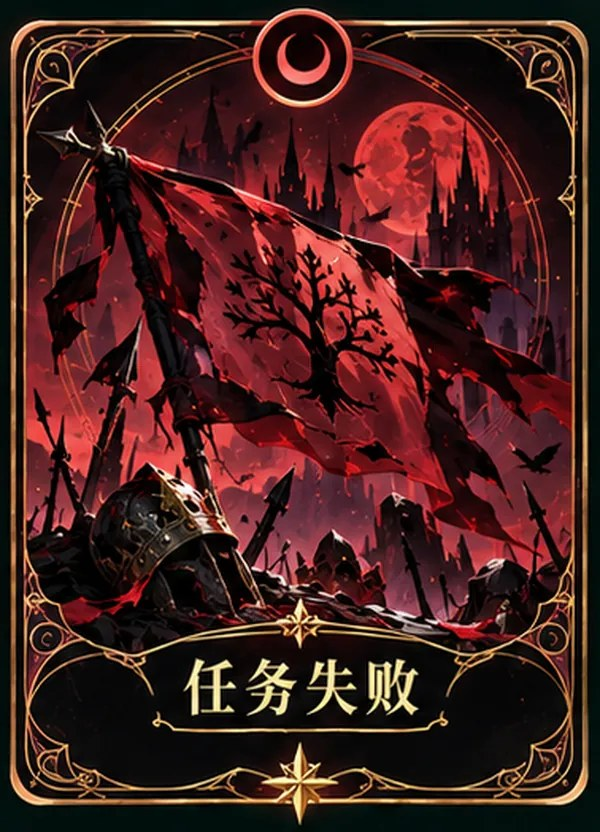
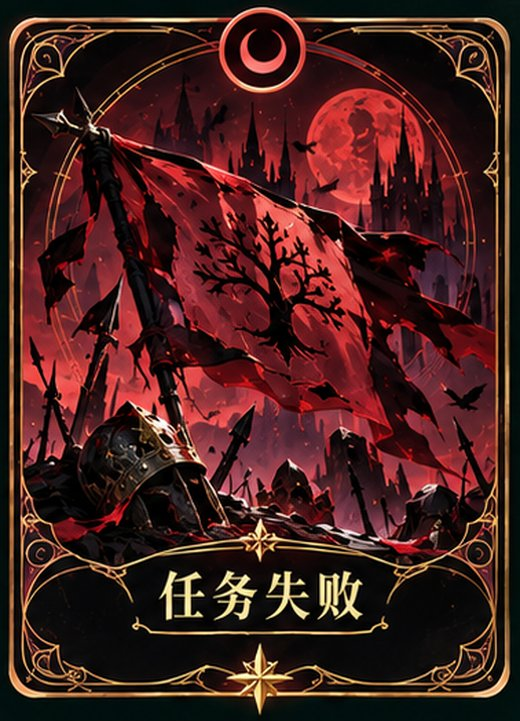
fix: migrate card assets from webp to jpg

Changed region(s): [[0.8615, 0.9154, 0.8923, 0.9459], [0.0615, 0.8849, 0.0923, 0.9154]]

diff --git a/miniprogram/tests/cards.test.js b/miniprogram/tests/cards.test.js
@@ -65,7 +65,7 @@ for (const [code, name] of Object.entries({
   MORDRED: 'mordred', OBERON: 'oberon',
 })) {
   test(`${code} maps to its supplied role artwork`, () => {
-    assert.equal(cards.roleCard(code), `/assets/cards/roles/${name}.webp`);
+    assert.equal(cards.roleCard(code), `/assets/cards/roles/${name}.jpg`);
   });
 }
 
@@ -77,39 +77,50 @@ test('unknown card codes including inherited object keys use safe fallbacks', ()
   }
 });
 
-test('all 19 mapped images exist as 17 WebP and 2 JPEG files and role back exists', () => {
+test('all 19 mapped images exist as nonempty JPEG files below 200KB', () => {
   const images = Object.values(cards.CARDS).flatMap(Object.values);
   assert.equal(images.length, 19);
   assert.equal(new Set(images).size, 19);
-  assert.equal(images.filter(image => image.endsWith('.webp')).length, 17);
-  assert.equal(images.filter(image => image.endsWith('.jpg')).length, 2);
   for (const image of images) {
     const bytes = fs.readFileSync(path.join(root, image));
-    if (image.endsWith('.jpg')) {
-      assert.equal(bytes.readUInt16BE(0), 0xffd8, image);
-      assert.equal(bytes.readUInt16BE(bytes.length - 2), 0xffd9, image);
-      assert.ok(bytes.length > 1024 && bytes.length < 200 * 1024, image);
-    } else {
-      assert.ok(image.endsWith('.webp'), image);
-      assert.equal(bytes.toString('ascii', 0, 4), 'RIFF', image);
-      assert.equal(bytes.toString('ascii', 8, 12), 'WEBP', image);
-      assert.ok(bytes.length > 1000 && bytes.length < 300 * 1024, image);
-    }
+    assert.ok(image.endsWith('.jpg'), image);
+    assert.equal(bytes.readUInt16BE(0), 0xffd8, image);
+    assert.equal(bytes.readUInt16BE(bytes.length - 2), 0xffd9, image);
+    assert.ok(bytes.length > 1024 && bytes.length <= 200_000, image);
   }
 });
 
-test('mission mappings select JPG only; duplicate mission WebP assets are absent', () => {
+test('all action mappings select JPG; no unmapped or duplicate files remain in cards/', () => {
   assert.equal(cards.actionCard('SUCCESS'), '/assets/cards/actions/mission-success.jpg');
   assert.equal(cards.actionCard('FAIL'), '/assets/cards/actions/mission-fail.jpg');
-  assert.equal(cards.actionCard('APPROVE'), '/assets/cards/actions/approve.webp');
-  assert.equal(cards.actionCard('REJECT'), '/assets/cards/actions/reject.webp');
-  for (const name of ['mission-success', 'mission-fail'])
-    assert.equal(fs.existsSync(path.join(root, `assets/cards/actions/${name}.webp`)), false);
+  assert.equal(cards.actionCard('APPROVE'), '/assets/cards/actions/approve.jpg');
+  assert.equal(cards.actionCard('REJECT'), '/assets/cards/actions/reject.jpg');
+  const actual = [];
+  function walk(dir) {
+    for (const entry of fs.readdirSync(dir, { withFileTypes: true })) {
+      const file = path.join(dir, entry.name);
+      if (entry.isDirectory()) walk(file);
+      else actual.push('/' + path.relative(root, file).split(path.sep).join('/'));
+    }
+  }
+  walk(path.join(root, 'assets/cards'));
+  assert.deepEqual(actual.sort(), Object.values(cards.CARDS).flatMap(Object.values).sort());
 });
 
-for (const [name, height] of [['mission-success', 834], ['mission-fail', 832]]) {
-  test(`${name} JPEG is progressive RGB with preserved 600x${height} dimensions`, () => {
-    const bytes = fs.readFileSync(path.join(root, `assets/cards/actions/${name}.jpg`));
+const CARD_HEIGHTS = {
+  'roles/merlin': 740, 'roles/percival': 819, 'roles/loyal-servant': 809,
+  'roles/assassin': 775, 'roles/morgana': 963, 'roles/mordred': 956,
+  'roles/oberon': 981, 'roles/minion': 967,
+  'back/role-back': 880, 'back/action-back': 699,
+  'actions/mission-success': 723, 'actions/mission-fail': 721,
+  'actions/approve': 723, 'actions/reject': 708,
+  'special/lady-of-the-lake': 705, 'special/assassinate': 712,
+  'special/good-victory': 710, 'special/evil-victory': 690,
+  'special/generic-emblem': 696,
+};
+for (const [name, height] of Object.entries(CARD_HEIGHTS)) {
+  test(`${name} JPEG is progressive RGB with proportionate 520x${height} dimensions`, () => {
+    const bytes = fs.readFileSync(path.join(root, `assets/cards/${name}.jpg`));
     let position = 2;
     let frame;
     // Parse JPEG segments before entropy data; SOF2 proves progressive encoding.
@@ -126,18 +137,31 @@ for (const [name, height] of [['mission-success', 834], ['mission-fail', 832]]) 
       };
       position += length + 2;
     }
-    assert.deepEqual(frame, { height, width: 600, channels: 3 });
+    assert.deepEqual(frame, { height, width: 520, channels: 3 });
   });
 }
 
-test('export script keeps mission JPG and extension-based mixed encoding settings', () => {
+test('export script outputs all 19 mapped JPGs with bounded JPEG settings', () => {
   const script = fs.readFileSync(path.join(root, '../scripts/export-cards.py'), 'utf8');
-  for (const name of ['mission-success', 'mission-fail'])
-    assert.ok(script.includes(`actions/${name}.jpg`));
-  assert.match(script, /destination\.suffix\.lower\(\) in \("\.jpg", "\.jpeg"\)/);
-  assert.match(script, /"JPEG", quality=88, optimize=True, progressive=True/);
-  assert.match(script, /"WEBP", quality=quality, method=6/);
+  const exported = [...script.matchAll(/"((?:roles|actions|back|special)\/[^"\s]+\.jpg)"/g)]
+    .map(match => '/assets/cards/' + match[1]);
+  assert.deepEqual(exported.sort(), Object.values(cards.CARDS).flatMap(Object.values).sort());
+  assert.match(script, /"JPEG", quality=quality, optimize=True, progressive=True/);
+  assert.match(script, /for quality in \(85, 82, 80\)/);
+  assert.match(script, /MAX_CARD_BYTES = 200_000/);
+  assert.match(script, /encoded\.tell\(\) <= MAX_CARD_BYTES/);
+  assert.match(script, /CARD_WIDTH = 520/);
+  assert.doesNotMatch(script, /"WEBP"|\.webp/);
   assert.match(script, /save_card\(card, destination\)/);
+});
+
+test('identity dealing and generic play-card defaults both use the JPEG role back', () => {
+  assert.equal(cards.CARDS.back.ROLE, '/assets/cards/back/role-back.jpg');
+  assert.equal(cards.CARDS.back.ACTION, '/assets/cards/back/action-back.jpg');
+  const generic = componentAt('components/play-card/play-card.js');
+  assert.equal(generic.definition.properties.back.value, cards.CARDS.back.ROLE);
+  const identity = deal();
+  assert.equal(identity.instance.data.back, cards.CARDS.back.ROLE);
 });
 
 function imageFixture(envVersion) {

diff --git a/miniprogram/utils/cards.js b/miniprogram/utils/cards.js
@@ -1,31 +1,31 @@
 // Only /my-role chooses a role card during a live game.
 const CARDS = {
   roles: {
-    MERLIN: '/assets/cards/roles/merlin.webp',
-    PERCIVAL: '/assets/cards/roles/percival.webp',
-    LOYAL_SERVANT: '/assets/cards/roles/loyal-servant.webp',
-    MORGANA: '/assets/cards/roles/morgana.webp',
-    ASSASSIN: '/assets/cards/roles/assassin.webp',
-    MINION: '/assets/cards/roles/minion.webp',
-    MORDRED: '/assets/cards/roles/mordred.webp',
-    OBERON: '/assets/cards/roles/oberon.webp',
+    MERLIN: '/assets/cards/roles/merlin.jpg',
+    PERCIVAL: '/assets/cards/roles/percival.jpg',
+    LOYAL_SERVANT: '/assets/cards/roles/loyal-servant.jpg',
+    MORGANA: '/assets/cards/roles/morgana.jpg',
+    ASSASSIN: '/assets/cards/roles/assassin.jpg',
+    MINION: '/assets/cards/roles/minion.jpg',
+    MORDRED: '/assets/cards/roles/mordred.jpg',
+    OBERON: '/assets/cards/roles/oberon.jpg',
   },
   actions: {
     SUCCESS: '/assets/cards/actions/mission-success.jpg',
     FAIL: '/assets/cards/actions/mission-fail.jpg',
-    APPROVE: '/assets/cards/actions/approve.webp',
-    REJECT: '/assets/cards/actions/reject.webp',
+    APPROVE: '/assets/cards/actions/approve.jpg',
+    REJECT: '/assets/cards/actions/reject.jpg',
   },
   special: {
-    LADY_OF_THE_LAKE: '/assets/cards/special/lady-of-the-lake.webp',
-    ASSASSINATE: '/assets/cards/special/assassinate.webp',
-    GOOD_VICTORY: '/assets/cards/special/good-victory.webp',
-    EVIL_VICTORY: '/assets/cards/special/evil-victory.webp',
-    GENERIC_EMBLEM: '/assets/cards/special/generic-emblem.webp',
+    LADY_OF_THE_LAKE: '/assets/cards/special/lady-of-the-lake.jpg',
+    ASSASSINATE: '/assets/cards/special/assassinate.jpg',
+    GOOD_VICTORY: '/assets/cards/special/good-victory.jpg',
+    EVIL_VICTORY: '/assets/cards/special/evil-victory.jpg',
+    GENERIC_EMBLEM: '/assets/cards/special/generic-emblem.jpg',
   },
   back: {
-    ROLE: '/assets/cards/back/role-back.webp',
-    ACTION: '/assets/cards/back/action-back.webp',
+    ROLE: '/assets/cards/back/role-back.jpg',
+    ACTION: '/assets/cards/back/action-back.jpg',
   },
 };
 Object.values(CARDS).forEach(Object.freeze);

diff --git a/scripts/export-cards.py b/scripts/export-cards.py
@@ -1,60 +1,53 @@
-"""Crop the supplied artwork without repainting it; requires Pillow with WebP/JPEG.
+"""Export the supplied artwork as local JPEG cards; requires Pillow.
 
 Run from the repository root: python3 scripts/export-cards.py
 The source sheets are local-only. A contact sheet is written there for review.
-Use --convert-mission-jpeg to re-encode only the two existing mission WebP files.
 """
-import argparse
+from io import BytesIO
 from pathlib import Path
 from PIL import Image, ImageDraw
 
 ROOT = Path(__file__).resolve().parents[1]
 SOURCE = ROOT / "design-source/cards"
 OUTPUT = ROOT / "miniprogram/assets/cards"
+CARD_WIDTH = 520  # Preserve proportions and quality while keeping the main package < 2 MiB.
+MAX_CARD_BYTES = 200_000
 
 # Coordinates include the protruding faction emblem and bottom star ornament.
 CARDS = [
-    ("03-roles.png", "roles/merlin.webp", (62, 14, 414, 515)),
-    ("03-roles.png", "roles/percival.webp", (420, 14, 738, 515)),
-    ("03-roles.png", "roles/loyal-servant.webp", (743, 14, 1065, 515)),
-    ("03-roles.png", "roles/assassin.webp", (1070, 14, 1406, 515)),
-    ("03-roles.png", "roles/morgana.webp", (22, 519, 299, 1032)),
-    ("03-roles.png", "roles/mordred.webp", (302, 519, 581, 1032)),
-    ("03-roles.png", "roles/oberon.webp", (583, 519, 855, 1032)),
-    ("03-roles.png", "roles/minion.webp", (856, 519, 1132, 1032)),
-    ("03-roles.png", "back/role-back.webp", (1136, 526, 1435, 1032)),
+    ("03-roles.png", "roles/merlin.jpg", (62, 14, 414, 515)),
+    ("03-roles.png", "roles/percival.jpg", (420, 14, 738, 515)),
+    ("03-roles.png", "roles/loyal-servant.jpg", (743, 14, 1065, 515)),
+    ("03-roles.png", "roles/assassin.jpg", (1070, 14, 1406, 515)),
+    ("03-roles.png", "roles/morgana.jpg", (22, 519, 299, 1032)),
+    ("03-roles.png", "roles/mordred.jpg", (302, 519, 581, 1032)),
+    ("03-roles.png", "roles/oberon.jpg", (583, 519, 855, 1032)),
+    ("03-roles.png", "roles/minion.jpg", (856, 519, 1132, 1032)),
+    ("03-roles.png", "back/role-back.jpg", (1136, 526, 1435, 1032)),
     ("01-actions.png", "actions/mission-success.jpg", (128, 7, 505, 531)),
     ("01-actions.png", "actions/mission-fail.jpg", (535, 7, 913, 531)),
-    ("01-actions.png", "actions/approve.webp", (943, 7, 1320, 531)),
-    ("01-actions.png", "actions/reject.webp", (128, 528, 505, 1041)),
-    ("01-actions.png", "back/action-back.webp", (535, 533, 913, 1041)),
-    ("02-special.png", "special/lady-of-the-lake.webp", (120, 6, 508, 532)),
-    ("02-special.png", "special/assassinate.webp", (531, 6, 915, 532)),
-    ("02-special.png", "special/good-victory.webp", (939, 6, 1324, 532)),
-    ("02-special.png", "special/evil-victory.webp", (120, 528, 508, 1043)),
-    ("02-special.png", "special/generic-emblem.webp", (939, 528, 1324, 1043)),
+    ("01-actions.png", "actions/approve.jpg", (943, 7, 1320, 531)),
+    ("01-actions.png", "actions/reject.jpg", (128, 528, 505, 1041)),
+    ("01-actions.png", "back/action-back.jpg", (535, 533, 913, 1041)),
+    ("02-special.png", "special/lady-of-the-lake.jpg", (120, 6, 508, 532)),
+    ("02-special.png", "special/assassinate.jpg", (531, 6, 915, 532)),
+    ("02-special.png", "special/good-victory.jpg", (939, 6, 1324, 532)),
+    ("02-special.png", "special/evil-victory.jpg", (120, 528, 508, 1043)),
+    ("02-special.png", "special/generic-emblem.jpg", (939, 528, 1324, 1043)),
 ]
 
 
 def save_card(card, destination):
-    if destination.suffix.lower() in (".jpg", ".jpeg"):
-        card.convert("RGB").save(
-            destination, "JPEG", quality=88, optimize=True, progressive=True
-        )
-    else:
-        quality = 86 if destination.parent.name == "roles" else 80
-        card.save(destination, "WEBP", quality=quality, method=6)
-
-
-def convert_mission_jpeg():
-    """One-time format experiment: preserve decoded pixels and dimensions, no crop/resize."""
-    for _, name, _ in CARDS:
-        destination = OUTPUT / name
-        if destination.suffix != ".jpg":
-            continue
-        with Image.open(destination.with_suffix(".webp")) as image:
-            save_card(image, destination)
-            print(f"{name},{image.width},{image.height},{destination.stat().st_size}")
+    if destination.suffix.lower() not in (".jpg", ".jpeg"):
+        raise ValueError(f"Card output must be JPEG: {destination}")
+    rgb = card.convert("RGB")
+    for quality in (85, 82, 80):
+        encoded = BytesIO()
+        rgb.save(encoded, "JPEG", quality=quality, optimize=True, progressive=True)
+        if encoded.tell() <= MAX_CARD_BYTES:
+            destination.write_bytes(encoded.getvalue())
+            return quality
+    raise ValueError(f"Card exceeds {MAX_CARD_BYTES} bytes at quality 80: {destination}")
 
 
 def main():
@@ -66,12 +59,12 @@ def main():
                 raise ValueError(f"Unexpected source dimensions: {source} {original.size}")
             card = original.convert("RGB").crop(box)
         # Preserve each card's original aspect ratio; no letter or frame is trimmed.
-        card = card.resize((600, round(card.height * 600 / card.width)), Image.Resampling.LANCZOS)
+        card = card.resize((CARD_WIDTH, round(card.height * CARD_WIDTH / card.width)), Image.Resampling.LANCZOS)
         destination = OUTPUT / name
         destination.parent.mkdir(parents=True, exist_ok=True)
-        save_card(card, destination)
+        quality = save_card(card, destination)
         size = destination.stat().st_size
-        rows.append((name, card.width, card.height, size))
+        rows.append((name, card.width, card.height, size, quality))
         preview = card.copy()
         preview.thumbnail((220, 340), Image.Resampling.LANCZOS)
         previews.append((name, preview))
@@ -82,17 +75,11 @@ def main():
         sheet.paste(preview, (x + (244 - preview.width) // 2, y + 8))
         draw.text((x + 8, y + 354), name, fill="#f5f1e8")
     sheet.save(SOURCE / "export-contact-sheet.jpg", quality=92)
-    print("asset,width,height,bytes")
+    print("asset,width,height,bytes,quality")
     for row in rows:
         print(",".join(map(str, row)))
     print(f"TOTAL: {sum(row[3] for row in rows)} bytes")
 
 
 if __name__ == "__main__":
-    parser = argparse.ArgumentParser(description=__doc__)
-    parser.add_argument("--convert-mission-jpeg", action="store_true")
-    args = parser.parse_args()
-    if args.convert_mission_jpeg:
-        convert_mission_jpeg()
-    else:
-        main()
+    main()

diff --git a/docs/card-ui-stage-one.md b/docs/card-ui-stage-one.md
@@ -4,7 +4,7 @@
 
 ## 资源
 
-原图均为 1448 × 1086，来源为本地 `design-source/cards/01-actions.png`、`02-special.png`、`03-roles.png`。仅裁切、等比例缩放及 WebP 压缩，没有重绘或修改原画文字。原图和本地裁切检查拼版被 `.gitignore` 排除，不删除原图。
+原图均为 1448 × 1086，来源为本地 `design-source/cards/01-actions.png`、`02-special.png`、`03-roles.png`。保持原有裁切坐标、构图、边框和文案，仅等比例缩放及 JPEG 压缩，没有重绘。原图和本地裁切检查拼版被 `.gitignore` 排除，不删除原图。
 
 共导出 19 张：身份牌 8、身份牌背 1、动作牌 4、动作牌背 1、特殊牌 5。动作图中的重复牌背保留中间一张；特殊图的重复牌背不另行导出。
 
@@ -18,47 +18,47 @@ miniprogram/assets/cards/
             evil-victory, generic-emblem
 ```
 
-当前资源为 17 张 `.webp` 和 2 张 `.jpg`：仅任务成功/失败牌使用 JPEG，角色、牌背、赞成/反对及特殊牌仍使用 WebP。资源映射统一放在 `miniprogram/utils/cards.js`，未知身份退回牌背，未知特殊牌退回通用徽记。
+当前 19 张资源全部为 `.jpg`，涵盖 actions / roles / back / special；包含原有两张任务 JPEG 的重新优化，以及剩余 17 张 WebP 的迁移。所有旧 WebP 已删除，可从 Git 历史恢复。资源映射统一放在 `miniprogram/utils/cards.js`，未知身份退回 JPEG 牌背，未知特殊牌退回 JPEG 通用徽记。
 
 | 资源（相对 cards/） | 尺寸 px | 字节 | KiB |
 | --- | --- | ---: | ---: |
-| roles/merlin.webp | 600 × 854 | 101314 | 98.9 |
-| roles/percival.webp | 600 × 945 | 96678 | 94.4 |
-| roles/loyal-servant.webp | 600 × 934 | 91266 | 89.1 |
-| roles/assassin.webp | 600 × 895 | 76240 | 74.5 |
-| roles/morgana.webp | 600 × 1111 | 87250 | 85.2 |
-| roles/mordred.webp | 600 × 1103 | 82644 | 80.7 |
-| roles/oberon.webp | 600 × 1132 | 87072 | 85.0 |
-| roles/minion.webp | 600 × 1115 | 77846 | 76.0 |
-| back/role-back.webp | 600 × 1015 | 82284 | 80.4 |
-| actions/mission-success.jpg | 600 × 834 | 138399 | 135.2 |
-| actions/mission-fail.jpg | 600 × 832 | 124146 | 121.2 |
-| actions/approve.webp | 600 × 834 | 85548 | 83.5 |
-| actions/reject.webp | 600 × 816 | 72766 | 71.1 |
-| back/action-back.webp | 600 × 806 | 83404 | 81.4 |
-| special/lady-of-the-lake.webp | 600 × 813 | 82294 | 80.4 |
-| special/assassinate.webp | 600 × 822 | 69588 | 68.0 |
-| special/good-victory.webp | 600 × 820 | 85914 | 83.9 |
-| special/evil-victory.webp | 600 × 796 | 67388 | 65.8 |
-| special/generic-emblem.webp | 600 × 803 | 78278 | 76.4 |
+| roles/merlin.jpg | 520 × 740 | 100676 | 98.3 |
+| roles/percival.jpg | 520 × 819 | 104726 | 102.3 |
+| roles/loyal-servant.jpg | 520 × 809 | 99182 | 96.9 |
+| roles/assassin.jpg | 520 × 775 | 85667 | 83.7 |
+| roles/morgana.jpg | 520 × 963 | 101837 | 99.5 |
+| roles/mordred.jpg | 520 × 956 | 96237 | 94.0 |
+| roles/oberon.jpg | 520 × 981 | 102586 | 100.2 |
+| roles/minion.jpg | 520 × 967 | 93828 | 91.6 |
+| back/role-back.jpg | 520 × 880 | 113337 | 110.7 |
+| actions/mission-success.jpg | 520 × 723 | 106470 | 104.0 |
+| actions/mission-fail.jpg | 520 × 721 | 97007 | 94.7 |
+| actions/approve.jpg | 520 × 723 | 105964 | 103.5 |
+| actions/reject.jpg | 520 × 708 | 94986 | 92.8 |
+| back/action-back.jpg | 520 × 699 | 105791 | 103.3 |
+| special/lady-of-the-lake.jpg | 520 × 705 | 102923 | 100.5 |
+| special/assassinate.jpg | 520 × 712 | 92308 | 90.1 |
+| special/good-victory.jpg | 520 × 710 | 106329 | 103.8 |
+| special/evil-victory.jpg | 520 × 690 | 89922 | 87.8 |
+| special/generic-emblem.jpg | 520 × 696 | 101817 | 99.4 |
 
-总资源 1,670,319 字节，约 1.59 MiB。WebP 角色质量参数为 86，其他 WebP 卡牌为 80；两张 JPEG 使用 quality=88、optimize=True、progressive=True。原图每张牌实际宽约 270～390 px，输出到 600 px 不会增加原画细节。
+总资源 1,901,593 字节，约 1.81 MiB。全部使用 quality=85、optimize=True、progressive=True。单张最大为身份牌背 113,337 字节，全部低于 200,000 字节（比 200 KiB 更严格）。脚本会在必要时依次尝试 quality=82 / 80，仍超限则报错，不继续劣化画质；本批没有触发降质。
 
-`project.config.json` 的 `packOptions.ignore` 排除 `tests/` 和 `package.json`。本次全包按现有包体测试口径保守估算 1,839,189 字节，约 1.754 MiB，比 2 MiB 少 257,963 字节。对应两个旧 WebP 已删除，未重复打包。Node 测试会阻止资源增长导致此估算超过 2 MiB；正式上传仍以微信开发者工具计算的编译包大小为准。
+`project.config.json` 的 `packOptions.ignore` 排除 `tests/` 和 `package.json`。本次全包按现有包体测试口径保守估算 2,070,446 字节，约 1.975 MiB，比 2 MiB 少 26,706 字节。未重复打包旧 WebP。Node 测试会阻止资源增长导致此估算超过 2 MiB；正式上传仍以微信开发者工具计算的编译包大小为准。当前预算较紧，新增代码或资源必须继续检查总包体。
 
-如需从本地原图重新导出，可使用带 Pillow/WebP 的 Python 执行 `python3 scripts/export-cards.py`。该脚本也在 `design-source/cards/` 生成仅供本地核对的联系表。
+如需从本地原图重新导出，可使用带 Pillow 的 Python 执行 `python3 scripts/export-cards.py`。默认正式输出全部 JPEG，并在 `design-source/cards/` 生成仅供本地核对的联系表。导出报告包含每张图片的尺寸、字节和实际 quality。
 
-## 体验版 JPEG 最小验证
+## 体验版 JPEG 全量迁移
 
-本次仅将现有任务成功/失败 WebP 解码后重新编码为 JPEG，保留 600 × 834 / 600 × 832 的像素尺寸，不重新裁切、缩放或改动构图。首次迁移命令为 `python3 scripts/export-cards.py --convert-mission-jpeg`，仅在旧 WebP 尚存在时使用；默认重新导出会根据目标扩展名输出混合 JPEG/WebP，不会恢复两张任务牌的旧 WebP 路径。
+用户已确认：前一轮两张任务 JPEG 正面在 iPhone 体验版正常显示，仍使用 WebP 的牌背不显示。因此本轮全部迁移为 JPEG。为同时满足质量和主包预算，将宽度从 600 px 等比调整为 520 px，保留原有裁切范围，高度按原比例取整；不改 UI 展示尺寸或动画。从原始 PNG 导出，避免重复有损压缩旧 WebP/JPEG。原图每张牌实际宽约 270～390 px，520 px 仍高于原画像素宽度。
 
 秘密任务选择、结果揭晓、历史提案缩略牌和任务详情继续通过统一 `CARDS.actions.SUCCESS/FAIL` 获取资源，没有组件硬编码 JPEG 路径。
 
 `play-card` 的前后图片均增加 `bindload` / `binderror`，由事件 dataset 区分 front/back 及实际 src。仅 develop/trial 输出 `[CARD IMAGE LOAD]` / `[CARD IMAGE ERROR]`；后者含脱敏 errMsg。release 或环境 API 不可用时不输出，不弹 Toast、不改变卡面或游戏状态。3D、翻牌时序、CSS 和卡牌尺寸完全不变。
 
-这不是已确认的 WebP 根因修复。需要重新上传并设置新的体验版，在 iPhone 微信分别核对任务成功、邪恶玩家任务失败、结果揭晓及历史缩略牌。若 JPG 正常显示，下一阶段再考虑其他 WebP；若 JPG 仍不显示，停止批量转换，结合加载日志检查 image/3D 渲染和真实上传包内容。后端、数据库、Nginx、MinIO 及合法域名均不涉及。
+身份牌、发牌阶段、身份查看、任务选择、结果揭晓、历史缩略图、赞成/反对资源及所有牌背全部通过 `cards.js` 指向 JPEG，没有组件硬编码新路径。需要重新上传并设置新的体验版，逐项验证真机显示；自动化检查并不能替代完整真机渲染验证。后端、数据库、Nginx、MinIO 及合法域名均不涉及。
 
-本次验证：`npm test` 304 项全部通过（卡牌相关 42 项），`npm run check` 通过。检查了 JPEG 首尾签名、渐进编码、三色通道、原始尺寸、17 张 WebP 签名、无重复资源、主包预算及仅 develop/trial 输出的前后卡牌诊断。其余 17 张图片字节未改动，未执行 Maven 或后端部署。
+本次验证：`npm test` 322 项全部通过（卡牌相关 60 项），`npm run check` 通过。检查了全部 JPEG 首尾签名、渐进编码、三色通道、等比尺寸、严格 200,000 字节上限、映射与资源一一对应、无旧资源、主包预算及仅 develop/trial 输出的前后卡牌诊断。全部 19 张 JPEG 经 Pillow 实际解码及比例校验；未执行 Maven 或后端部署。
 
 ## 组件与流程
 
@@ -72,7 +72,7 @@ miniprogram/assets/cards/
 
 原画奥伯伦卡写着「不被其他坏人看见」，属于简化描述。保留原画文字，辅助说明仍显示后端返回的规则：奥伯伦和普通邪恶玩家互不可见，梅林可以看见奥伯伦。
 
-## 验证
+## 初始 UI 阶段验证（历史记录）
 
 - `cd miniprogram && npm test`：66 项通过，包括新增 25 项资源/翻牌/刷新/后台恢复/确认/隐私/包体检查。
 - `cd miniprogram && npm run check`：通过。
